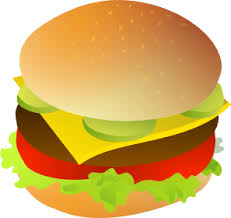
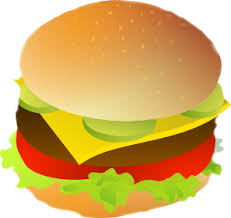
Cheeseburger image
Changed the cheeseburger image to transparent

diff --git a/core/src/com/hampton/game/demo/BubbleDrop.java b/core/src/com/hampton/game/demo/BubbleDrop.java
@@ -87,7 +87,7 @@ public class BubbleDrop extends GameScreen {
             bucket.setX(Gdx.input.getX() - 64 / 2);
         }
         if (gameOn && numFrames % newDropInterval == 0) {
-            Actor drop = ActorUtils.createActorFromImage("Cheeseburger.jpg");drop.setSize(100, 100);
+            Actor drop = ActorUtils.createActorFromImage("Cheeseburger.png");drop.setSize(100, 100);
             drop.setPosition(
                     randomNumberGenerator.nextInt(stage.getViewport().getScreenWidth() - (int)drop.getWidth()),
                     stage.getViewport().getScreenHeight());
